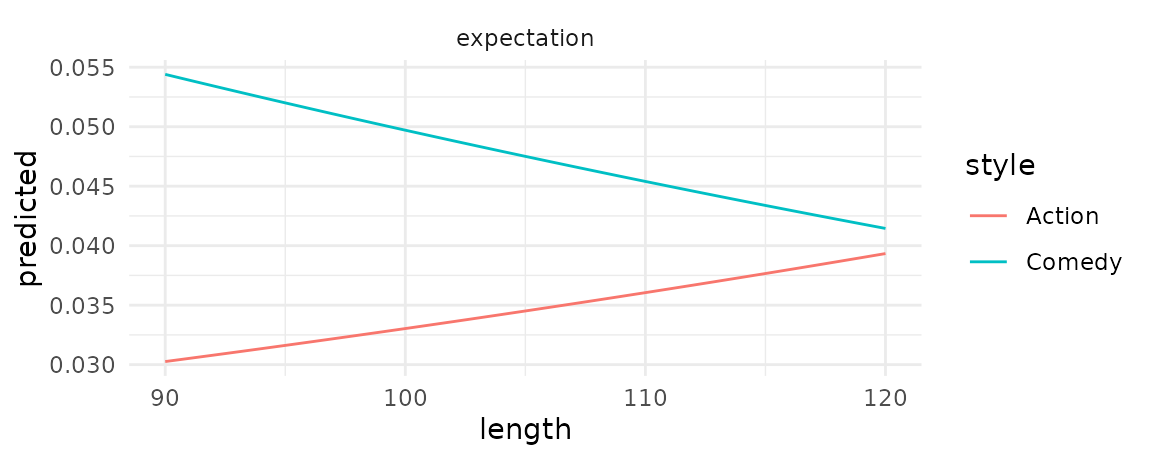
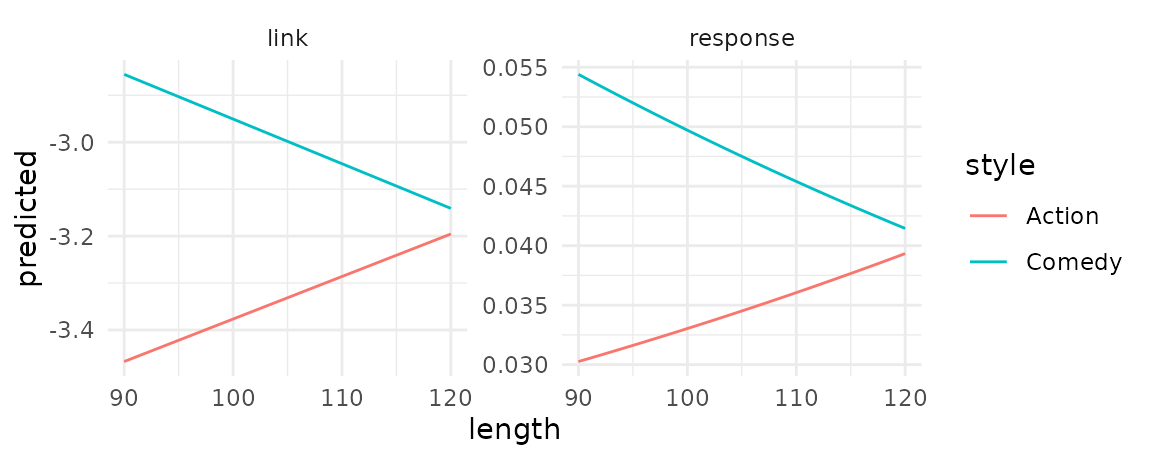
Built site for marginaleffects: 0.1.0@88b48d2

diff --git a/articles/predictions.html b/articles/predictions.html
@@ -93,8 +93,8 @@
 <span class="va">mod</span> <span class="op">&lt;-</span> <span class="fu"><a href="https://rdrr.io/r/stats/lm.html">lm</a></span><span class="op">(</span><span class="va">mpg</span> <span class="op">~</span> <span class="va">hp</span> <span class="op">+</span> <span class="fu"><a href="https://rdrr.io/r/base/factor.html">factor</a></span><span class="op">(</span><span class="va">cyl</span><span class="op">)</span>, data <span class="op">=</span> <span class="va">mtcars</span><span class="op">)</span>
 
 <span class="fu"><a href="../reference/predictions.html">predictions</a></span><span class="op">(</span><span class="va">mod</span><span class="op">)</span>
-<span class="co">#&gt;          type predicted std.error conf.low conf.high       hp cyl</span>
-<span class="co">#&gt; 1 expectation  16.60307  1.278754 13.98366  19.22248 146.6875   8</span></code></pre></div>
+<span class="co">#&gt;       type predicted std.error conf.low conf.high       hp cyl</span>
+<span class="co">#&gt; 1 response  16.60307  1.278754 13.98366  19.22248 146.6875   8</span></code></pre></div>
 <p>In many cases, this is too limiting, and researchers will want to specify a grid of “typical” values over which to compute adjusted predictions.</p>
 <div id="typical-predictions" class="section level1">
 <h1 class="hasAnchor">
@@ -106,22 +106,22 @@
 <p>The <code>variables</code> argument is a handy shortcut to create grids of predictors. Each of the levels of factor/logical/character variables listed in the <code>variables</code> argument will be displayed. For numeric variables, <code>predictions</code> will compute adjusted predictions at Tukey’s 5 summary numbers. All other variables will be set at their means or modes.</p>
 <div class="sourceCode" id="cb2"><pre class="downlit sourceCode r">
 <code class="sourceCode R"><span class="fu"><a href="../reference/predictions.html">predictions</a></span><span class="op">(</span><span class="va">mod</span>, variables <span class="op">=</span> <span class="fu"><a href="https://rdrr.io/r/base/c.html">c</a></span><span class="op">(</span><span class="st">"cyl"</span>, <span class="st">"hp"</span><span class="op">)</span><span class="op">)</span>
-<span class="co">#&gt;           type predicted std.error  conf.low conf.high cyl  hp</span>
-<span class="co">#&gt; 1  expectation  21.43244 1.6083883 18.137810  24.72708   6  52</span>
-<span class="co">#&gt; 2  expectation  27.40010 1.0595843 25.229639  29.57056   4  52</span>
-<span class="co">#&gt; 3  expectation  18.87925 2.5641372 13.626851  24.13165   8  52</span>
-<span class="co">#&gt; 4  expectation  20.37474 1.2562453 17.801433  22.94804   6  96</span>
-<span class="co">#&gt; 5  expectation  26.34239 0.9707174 24.353966  28.33081   4  96</span>
-<span class="co">#&gt; 6  expectation  17.82154 1.9364843 13.854831  21.78825   8  96</span>
-<span class="co">#&gt; 7  expectation  19.72569 1.1892191 17.289682  22.16169   6 123</span>
-<span class="co">#&gt; 8  expectation  25.69334 1.1343184 23.369796  28.01689   4 123</span>
-<span class="co">#&gt; 9  expectation  17.17249 1.5721502 13.952087  20.39289   8 123</span>
-<span class="co">#&gt; 10 expectation  18.35547 1.4848895 15.313815  21.39713   6 180</span>
-<span class="co">#&gt; 11 expectation  24.32313 1.7749372 20.687334  27.95892   4 180</span>
-<span class="co">#&gt; 12 expectation  15.80228 0.9537705 13.848567  17.75599   8 180</span>
-<span class="co">#&gt; 13 expectation  14.62945 3.4865450  7.487590  21.77132   6 335</span>
-<span class="co">#&gt; 14 expectation  20.59711 4.0024363 12.398490  28.79573   4 335</span>
-<span class="co">#&gt; 15 expectation  12.07626 2.1126445  7.748702  16.40381   8 335</span></code></pre></div>
+<span class="co">#&gt;        type predicted std.error  conf.low conf.high cyl  hp</span>
+<span class="co">#&gt; 1  response  21.43244 1.6083883 18.137810  24.72708   6  52</span>
+<span class="co">#&gt; 2  response  27.40010 1.0595843 25.229639  29.57056   4  52</span>
+<span class="co">#&gt; 3  response  18.87925 2.5641372 13.626851  24.13165   8  52</span>
+<span class="co">#&gt; 4  response  20.37474 1.2562453 17.801433  22.94804   6  96</span>
+<span class="co">#&gt; 5  response  26.34239 0.9707174 24.353966  28.33081   4  96</span>
+<span class="co">#&gt; 6  response  17.82154 1.9364843 13.854831  21.78825   8  96</span>
+<span class="co">#&gt; 7  response  19.72569 1.1892191 17.289682  22.16169   6 123</span>
+<span class="co">#&gt; 8  response  25.69334 1.1343184 23.369796  28.01689   4 123</span>
+<span class="co">#&gt; 9  response  17.17249 1.5721502 13.952087  20.39289   8 123</span>
+<span class="co">#&gt; 10 response  18.35547 1.4848895 15.313815  21.39713   6 180</span>
+<span class="co">#&gt; 11 response  24.32313 1.7749372 20.687334  27.95892   4 180</span>
+<span class="co">#&gt; 12 response  15.80228 0.9537705 13.848567  17.75599   8 180</span>
+<span class="co">#&gt; 13 response  14.62945 3.4865450  7.487590  21.77132   6 335</span>
+<span class="co">#&gt; 14 response  20.59711 4.0024363 12.398490  28.79573   4 335</span>
+<span class="co">#&gt; 15 response  12.07626 2.1126445  7.748702  16.40381   8 335</span></code></pre></div>
 <p>The <code>data.frame</code> produced by <code>predictions</code> is “tidy”, which makes it easy to manipulate with other <code>R</code> packages and functions:</p>
 <div class="sourceCode" id="cb3"><pre class="downlit sourceCode r">
 <code class="sourceCode R"><span class="kw"><a href="https://rdrr.io/r/base/library.html">library</a></span><span class="op">(</span><span class="va"><a href="http://haozhu233.github.io/kableExtra/">kableExtra</a></span><span class="op">)</span>
@@ -250,10 +250,10 @@ hp
 <p>We can also use this <code>typical</code> function in a <code>predictions</code> call (omitting the <code>model</code> argument):</p>
 <div class="sourceCode" id="cb5"><pre class="downlit sourceCode r">
 <code class="sourceCode R"><span class="fu"><a href="../reference/predictions.html">predictions</a></span><span class="op">(</span><span class="va">mod</span>, newdata <span class="op">=</span> <span class="fu"><a href="../reference/typical.html">typical</a></span><span class="op">(</span>cyl <span class="op">=</span> <span class="fu"><a href="https://rdrr.io/r/base/c.html">c</a></span><span class="op">(</span><span class="fl">4</span>, <span class="fl">6</span>, <span class="fl">8</span><span class="op">)</span><span class="op">)</span><span class="op">)</span>
-<span class="co">#&gt;          type predicted std.error conf.low conf.high       hp cyl</span>
-<span class="co">#&gt; 1 expectation  25.12392  1.368888 22.31988  27.92796 146.6875   4</span>
-<span class="co">#&gt; 2 expectation  19.15627  1.247190 16.60151  21.71102 146.6875   6</span>
-<span class="co">#&gt; 3 expectation  16.60307  1.278754 13.98366  19.22248 146.6875   8</span></code></pre></div>
+<span class="co">#&gt;       type predicted std.error conf.low conf.high       hp cyl</span>
+<span class="co">#&gt; 1 response  25.12392  1.368888 22.31988  27.92796 146.6875   4</span>
+<span class="co">#&gt; 2 response  19.15627  1.247190 16.60151  21.71102 146.6875   6</span>
+<span class="co">#&gt; 3 response  16.60307  1.278754 13.98366  19.22248 146.6875   8</span></code></pre></div>
 </div>
 </div>
 <div id="plot-conditional-predictions" class="section level1">
@@ -303,8 +303,9 @@ hp
 <div class="sourceCode" id="cb10"><pre class="downlit sourceCode r">
 <code class="sourceCode R"><span class="va">mod</span> <span class="op">&lt;-</span> <span class="fu"><a href="https://rdrr.io/r/stats/glm.html">glm</a></span><span class="op">(</span><span class="va">am</span> <span class="op">~</span> <span class="va">mpg</span>, family <span class="op">=</span> <span class="va">binomial</span>, data <span class="op">=</span> <span class="va">mtcars</span><span class="op">)</span>
 <span class="fu"><a href="../reference/predictions.html">predictions</a></span><span class="op">(</span><span class="va">mod</span>, type <span class="op">=</span> <span class="fu"><a href="https://rdrr.io/r/base/c.html">c</a></span><span class="op">(</span><span class="st">"response"</span>, <span class="st">"link"</span><span class="op">)</span><span class="op">)</span>
-<span class="co">#&gt;          type predicted std.error  conf.low conf.high      mpg</span>
-<span class="co">#&gt; 1 expectation    0.3929 0.1083666 0.2098929 0.6118973 20.09062</span></code></pre></div>
+<span class="co">#&gt;       type  predicted std.error   conf.low conf.high      mpg</span>
+<span class="co">#&gt; 1 response  0.3929000 0.1083666  0.2098929 0.6118973 20.09062</span>
+<span class="co">#&gt; 2     link -0.4351385 0.4543108 -1.3255713 0.4552944 20.09062</span></code></pre></div>
 <p>Users who need more control over the type of adjusted predictions to compute, including a host of options for back-transformation, may want to consider the <a href="https://cran.r-project.org/package=emmeans"><code>emmeans</code> package.</a></p>
 </div>
   </div>

diff --git a/articles/marginalmeans.html b/articles/marginalmeans.html
@@ -98,13 +98,13 @@
 <p>Using the <code>predictions</code> function, we set the <code>hp</code> variable at its mean and compute predictions for all combinations for <code>am</code> and <code>cyl</code>:</p>
 <div class="sourceCode" id="cb2"><pre class="downlit sourceCode r">
 <code class="sourceCode R"><span class="fu"><a href="../reference/predictions.html">predictions</a></span><span class="op">(</span><span class="va">mod</span>, variables <span class="op">=</span> <span class="fu"><a href="https://rdrr.io/r/base/c.html">c</a></span><span class="op">(</span><span class="st">"am"</span>, <span class="st">"cyl"</span><span class="op">)</span><span class="op">)</span>
-<span class="co">#&gt;          type predicted std.error conf.low conf.high       hp    am cyl</span>
-<span class="co">#&gt; 1 expectation  21.03914  1.213043 18.55019  23.52810 146.6875  TRUE   6</span>
-<span class="co">#&gt; 2 expectation  16.88129  1.272938 14.26944  19.49314 146.6875 FALSE   6</span>
-<span class="co">#&gt; 3 expectation  24.96372  1.176830 22.54907  27.37838 146.6875  TRUE   4</span>
-<span class="co">#&gt; 4 expectation  20.80587  1.756564 17.20169  24.41004 146.6875 FALSE   4</span>
-<span class="co">#&gt; 5 expectation  21.43031  1.826126 17.68341  25.17721 146.6875  TRUE   8</span>
-<span class="co">#&gt; 6 expectation  17.27245  1.116885 14.98079  19.56411 146.6875 FALSE   8</span></code></pre></div>
+<span class="co">#&gt;       type predicted std.error conf.low conf.high       hp    am cyl</span>
+<span class="co">#&gt; 1 response  21.03914  1.213043 18.55019  23.52810 146.6875  TRUE   6</span>
+<span class="co">#&gt; 2 response  16.88129  1.272938 14.26944  19.49314 146.6875 FALSE   6</span>
+<span class="co">#&gt; 3 response  24.96372  1.176830 22.54907  27.37838 146.6875  TRUE   4</span>
+<span class="co">#&gt; 4 response  20.80587  1.756564 17.20169  24.41004 146.6875 FALSE   4</span>
+<span class="co">#&gt; 5 response  21.43031  1.826126 17.68341  25.17721 146.6875  TRUE   8</span>
+<span class="co">#&gt; 6 response  17.27245  1.116885 14.98079  19.56411 146.6875 FALSE   8</span></code></pre></div>
 <p>For illustration purposes, it is useful to reshape the above results:</p>
 <table class="table table">
 <thead>
@@ -250,7 +250,7 @@ Marginal means of am
 <span class="co">#&gt; 5   am  TRUE 22.48     0.8343   26.94 &lt; 2.22e-16 20.84  24.11</span>
 <span class="co">#&gt; </span>
 <span class="co">#&gt; Model type:  lm </span>
-<span class="co">#&gt; Prediction type:  expectation</span></code></pre></div>
+<span class="co">#&gt; Prediction type:  response</span></code></pre></div>
 <p>Thanks to those tidiers, we can also present the results in the style of a regression table <a href="https://vincentarelbundock.github.io/modelsummary/">using the <code>modelsummary</code> package:</a></p>
 <div class="sourceCode" id="cb6"><pre class="downlit sourceCode r">
 <code class="sourceCode R"><span class="kw"><a href="https://rdrr.io/r/base/library.html">library</a></span><span class="op">(</span><span class="st"><a href="https://vincentarelbundock.github.io/modelsummary/">"modelsummary"</a></span><span class="op">)</span>

diff --git a/reference/marginalmeans.html b/reference/marginalmeans.html
@@ -120,7 +120,12 @@
     <p>Compute estimated marginal means for specified factors.</p>
     </div>
 
-    <pre class="usage"><span class='fu'>marginalmeans</span><span class='op'>(</span><span class='va'>model</span>, variables <span class='op'>=</span> <span class='cn'>NULL</span>, vcov <span class='op'>=</span> <span class='fu'>insight</span><span class='fu'>::</span><span class='fu'><a href='https://easystats.github.io/insight/reference/get_varcov.html'>get_varcov</a></span><span class='op'>(</span><span class='va'>model</span><span class='op'>)</span><span class='op'>)</span></pre>
+    <pre class="usage"><span class='fu'>marginalmeans</span><span class='op'>(</span>
+  <span class='va'>model</span>,
+  variables <span class='op'>=</span> <span class='cn'>NULL</span>,
+  vcov <span class='op'>=</span> <span class='fu'>insight</span><span class='fu'>::</span><span class='fu'><a href='https://easystats.github.io/insight/reference/get_varcov.html'>get_varcov</a></span><span class='op'>(</span><span class='va'>model</span><span class='op'>)</span>,
+  type <span class='op'>=</span> <span class='st'>"response"</span>
+<span class='op'>)</span></pre>
 
     <h2 class="hasAnchor" id="arguments"><a class="anchor" href="#arguments"></a>Arguments</h2>
     <table class="ref-arguments">
@@ -142,6 +147,12 @@ factor variables in the dataset used to fit <code>model</code>.</p></td>
 <li><p>TRUE: computes unit-level standard errors using the default <code><a href='https://rdrr.io/r/stats/vcov.html'>vcov(model)</a></code> variance-covariance matrix.</p></li>
 <li><p>Named square matrix: computes standard errors with a user-supplied variance-covariance matrix. This matrix must be square and have dimensions equal to the number of coefficients in <code><a href='get_coef.html'>get_coef(model)</a></code>.</p></li>
 </ul></td>
+    </tr>
+    <tr>
+      <th>type</th>
+      <td><p>Type(s) of prediction as string or vector This can
+differ based on the model type, but will typically be a string such as:
+"response", "link", "probs", or "zero".</p></td>
     </tr>
     </table>
 
@@ -181,7 +192,7 @@ advanced options: https://vincentarelbundock.github.io/marginaleffects/</p>
 #&gt; 5   am  TRUE 22.48     0.8343   26.94 &lt; 2.22e-16 20.84  24.11
 #&gt; 
 #&gt; Model type:  lm 
-#&gt; Prediction type:  expectation </div></pre>
+#&gt; Prediction type:  response </div></pre>
   </div>
   <div class="col-md-3 hidden-xs hidden-sm" id="pkgdown-sidebar">
     <nav id="toc" data-toggle="toc" class="sticky-top">

diff --git a/articles/mfx.html b/articles/mfx.html
@@ -256,12 +256,12 @@
 <span class="fu"><a href="../reference/marginaleffects.html">marginaleffects</a></span><span class="op">(</span><span class="va">mod</span>, newdata <span class="op">=</span> <span class="fu"><a href="../reference/typical.html">typical</a></span><span class="op">(</span>x <span class="op">=</span> <span class="op">-</span><span class="fl">2</span><span class="op">:</span><span class="fl">2</span><span class="op">)</span><span class="op">)</span>  <span class="op">%&gt;%</span>
     <span class="fu"><a href="https://dplyr.tidyverse.org/reference/mutate.html">mutate</a></span><span class="op">(</span>truth <span class="op">=</span> <span class="fl">1</span> <span class="op">+</span> <span class="fl">4</span> <span class="op">*</span> <span class="va">x</span><span class="op">)</span> <span class="op">%&gt;%</span>
     <span class="fu"><a href="https://dplyr.tidyverse.org/reference/select.html">select</a></span><span class="op">(</span><span class="va">dydx</span>, <span class="va">truth</span><span class="op">)</span>
-<span class="co">#&gt;        dydx truth</span>
-<span class="co">#&gt; 1 -7.014639    -7</span>
-<span class="co">#&gt; 2 -3.007555    -3</span>
-<span class="co">#&gt; 3  0.999529     1</span>
-<span class="co">#&gt; 4  5.006613     5</span>
-<span class="co">#&gt; 5  9.013697     9</span></code></pre></div>
+<span class="co">#&gt;         dydx truth</span>
+<span class="co">#&gt; 1 -7.0025835    -7</span>
+<span class="co">#&gt; 2 -3.0021238    -3</span>
+<span class="co">#&gt; 3  0.9983359     1</span>
+<span class="co">#&gt; 4  4.9987955     5</span>
+<span class="co">#&gt; 5  8.9992552     9</span></code></pre></div>
 <p>We can also plot the result with the <code>plot_cme</code> function (see section below):</p>
 <div class="sourceCode" id="cb12"><pre class="downlit sourceCode r">
 <code class="sourceCode R"><span class="fu"><a href="../reference/plot_cme.html">plot_cme</a></span><span class="op">(</span><span class="va">mod</span>, effect <span class="op">=</span> <span class="st">"x"</span>, condition <span class="op">=</span> <span class="st">"x"</span><span class="op">)</span></code></pre></div>

diff --git a/reference/predictions.html b/reference/predictions.html
@@ -120,7 +120,14 @@
     <p>Compute model-adjusted predictions (fitted values) for a "grid" of regressor values.</p>
     </div>
 
-    <pre class="usage"><span class='fu'>predictions</span><span class='op'>(</span><span class='va'>model</span>, variables <span class='op'>=</span> <span class='cn'>NULL</span>, newdata <span class='op'>=</span> <span class='cn'>NULL</span>, conf.level <span class='op'>=</span> <span class='fl'>0.95</span>, <span class='va'>...</span><span class='op'>)</span></pre>
+    <pre class="usage"><span class='fu'>predictions</span><span class='op'>(</span>
+  <span class='va'>model</span>,
+  variables <span class='op'>=</span> <span class='cn'>NULL</span>,
+  newdata <span class='op'>=</span> <span class='cn'>NULL</span>,
+  conf.level <span class='op'>=</span> <span class='fl'>0.95</span>,
+  type <span class='op'>=</span> <span class='st'>"response"</span>,
+  <span class='va'>...</span>
+<span class='op'>)</span></pre>
 
     <h2 class="hasAnchor" id="arguments"><a class="anchor" href="#arguments"></a>Arguments</h2>
     <table class="ref-arguments">
@@ -147,6 +154,12 @@ the original data used to fit the model.</p></td>
 No interval is computed if <code>conf.int=NULL</code>.  Must be strictly greater than 0
 and less than 1. Defaults to 0.95, which corresponds to a 95 percent
 confidence interval.</p></td>
+    </tr>
+    <tr>
+      <th>type</th>
+      <td><p>Type(s) of prediction as string or vector This can
+differ based on the model type, but will typically be a string such as:
+"response", "link", "probs", or "zero".</p></td>
     </tr>
     <tr>
       <th>...</th>
